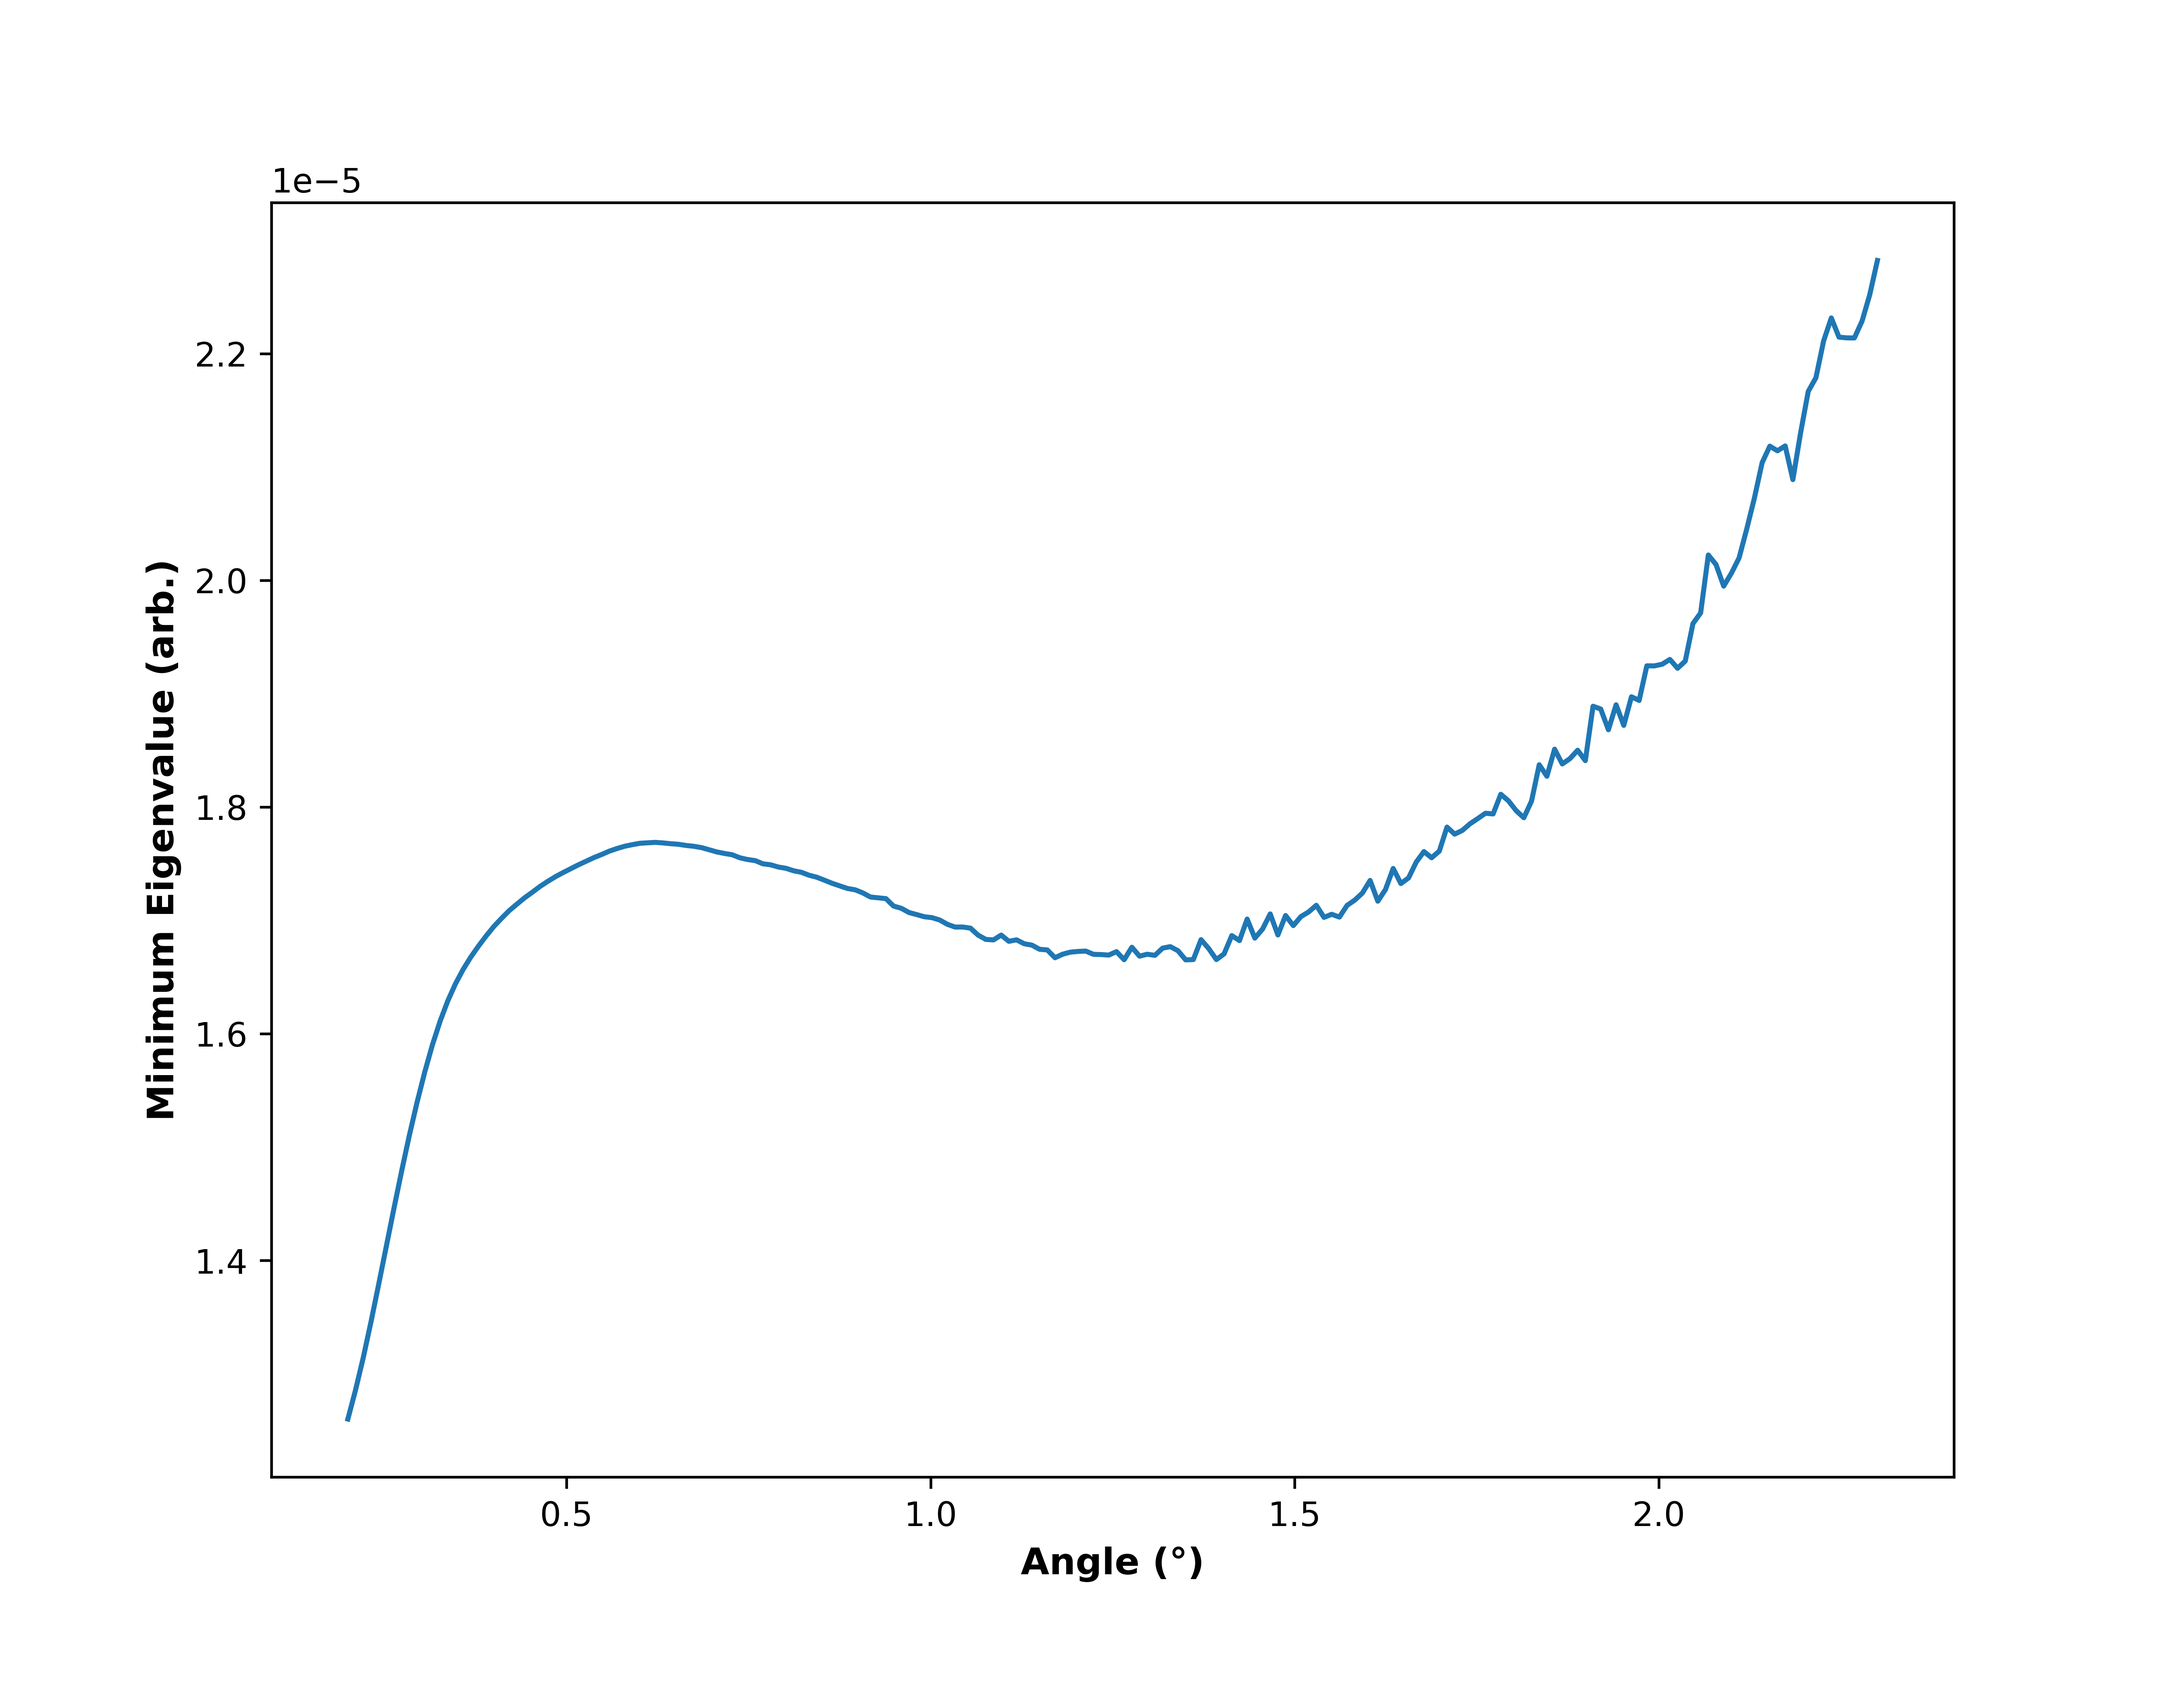
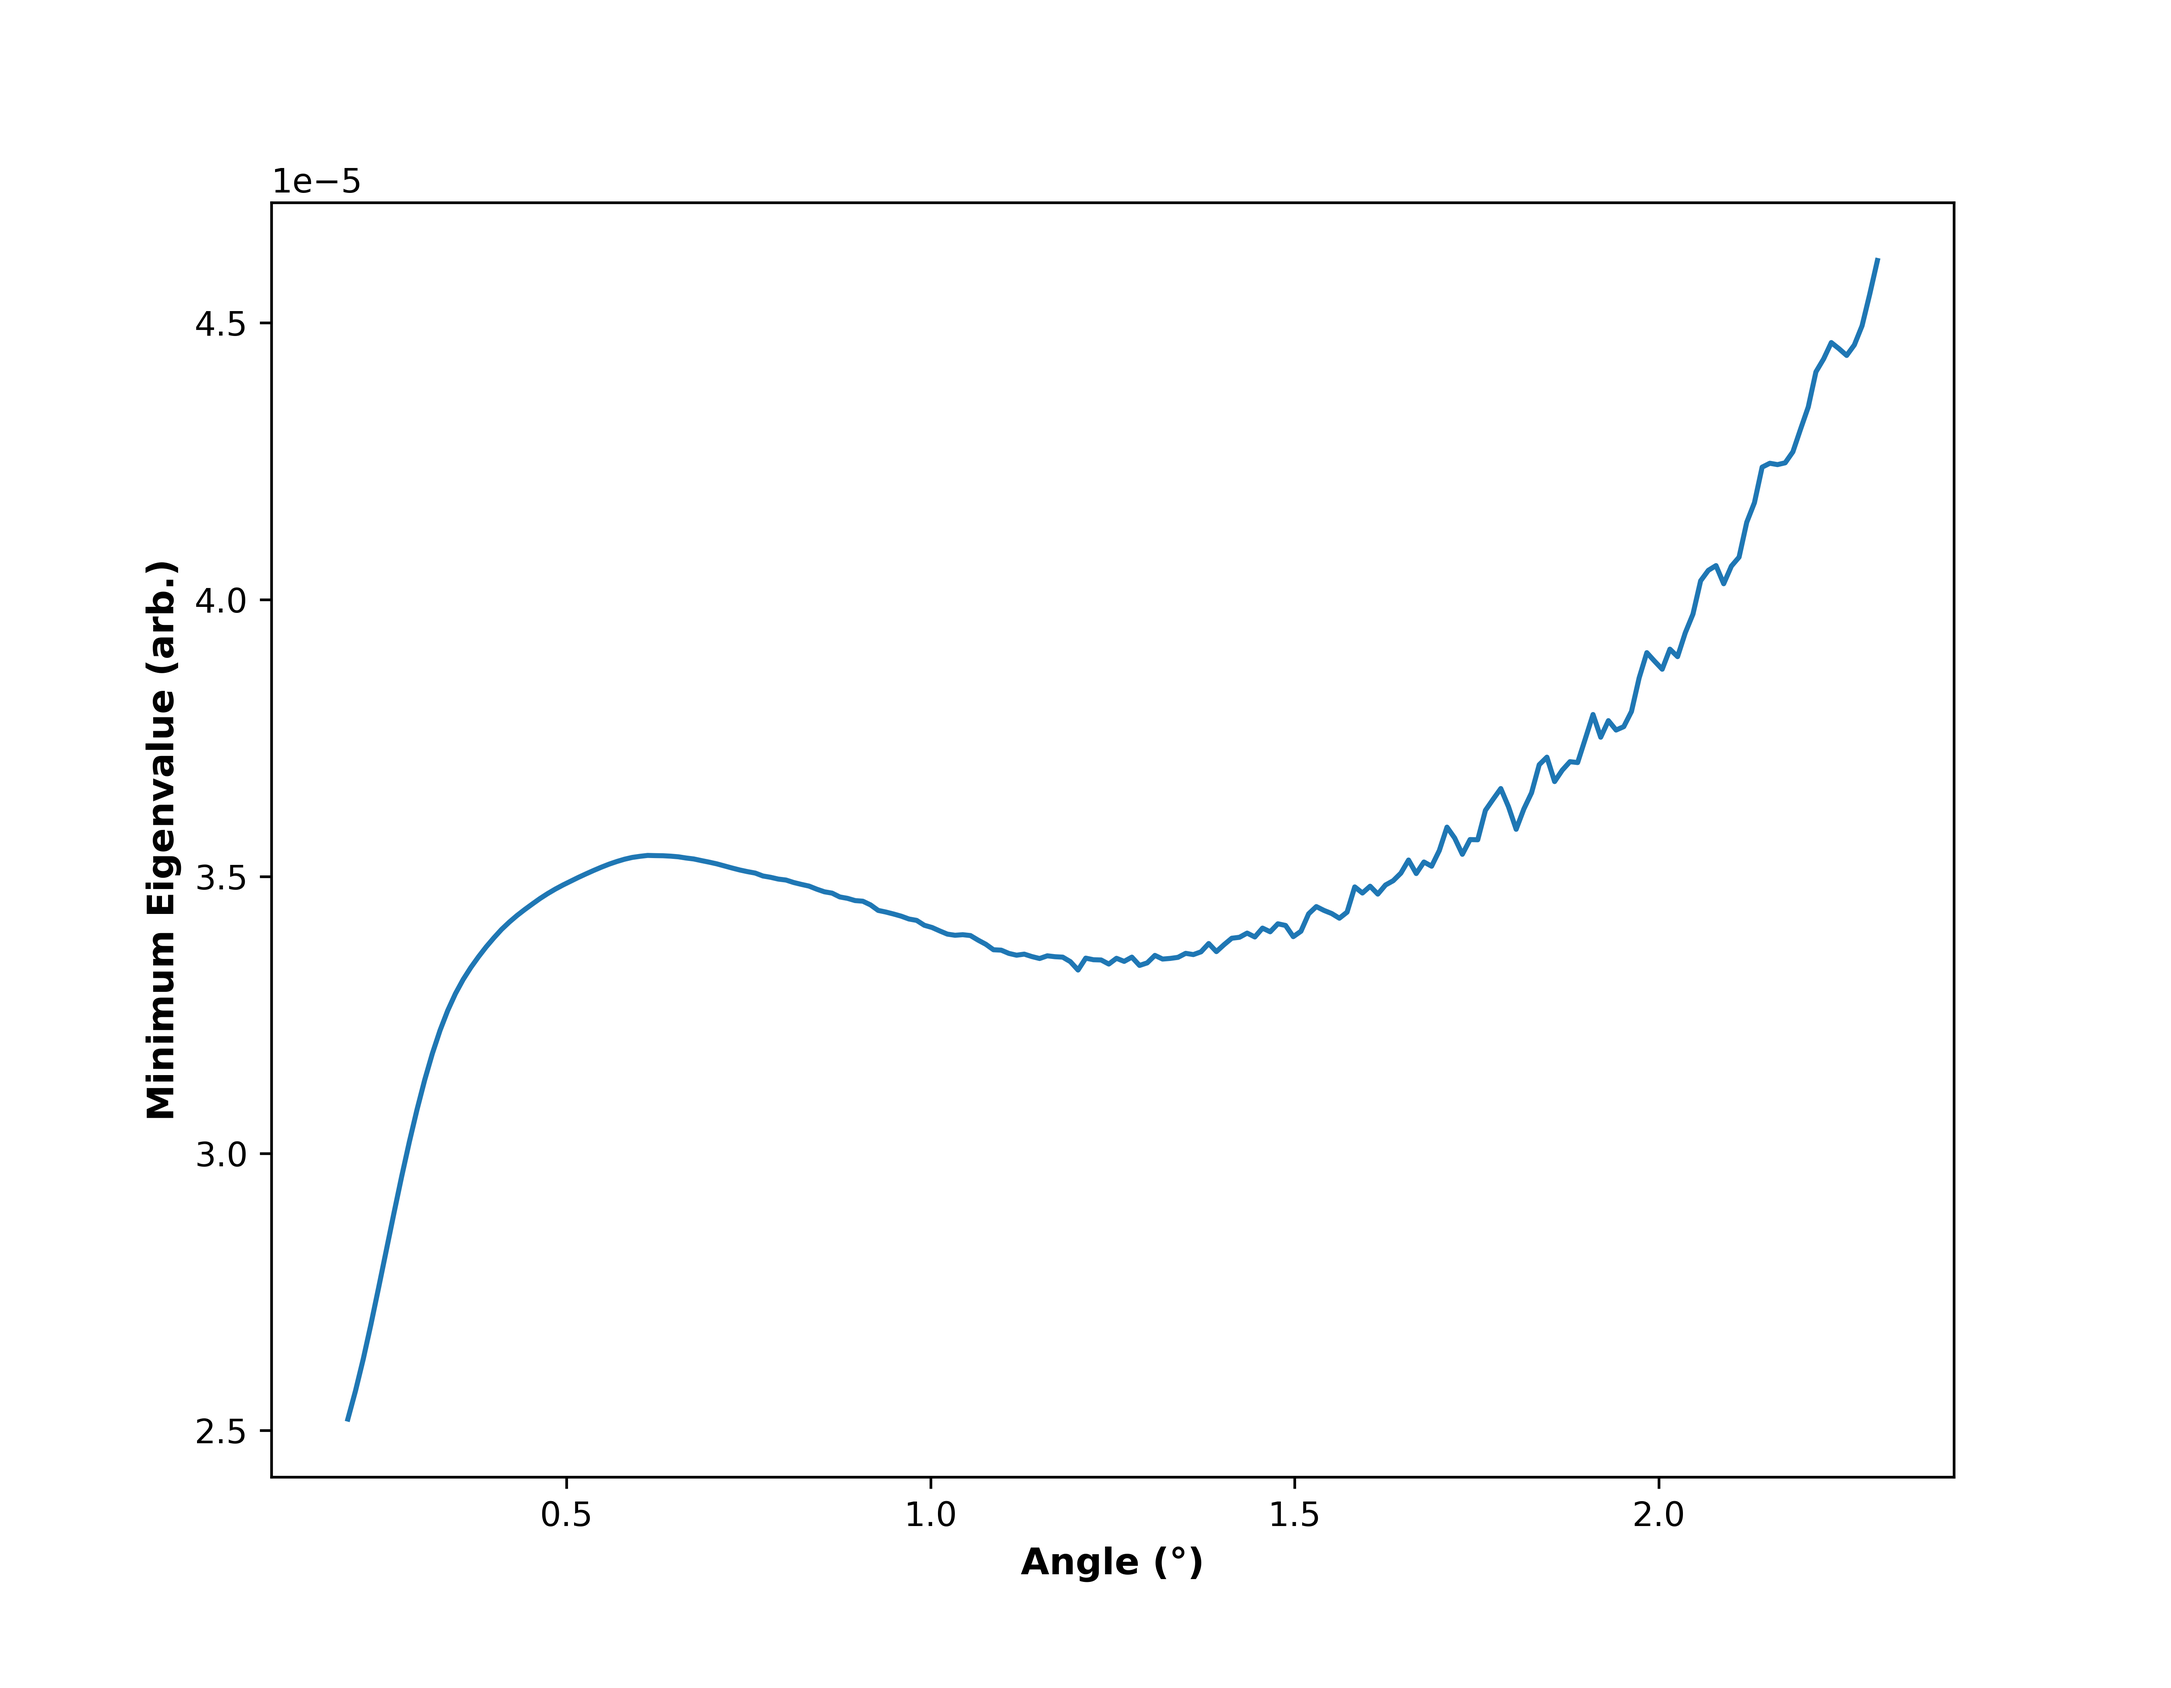
Updated demo

diff --git a/demo/angle.py b/demo/angle.py
@@ -4,6 +4,8 @@ import sys
 sys.path.append('../experimental-design')
 
 from refnx.reflect import SLD
+
+from structures import Sample
 from design import angle_choice_single
 
 # Defines a structure describing a simple sample.
@@ -15,19 +17,22 @@ substrate = SLD(2.047, name='Substrate')(thick=0, rough=2)
 structure = air | layer1 | layer2 | substrate
 structure.name = 'thin_layer_sample'
 
+# Wrap the refnx structure in the custom Sample class.
+sample = Sample(structure)
+
 # Path to directory to save results to.
 save_path = './results'
 
 points = 70 # Number of data points to simulate.
-time = 20 # Time to use for simulation.
+time = 40 # Time to use for simulation.
 
 # Angles (in degrees) to calculate over.
 angle_range = np.linspace(0.2, 2.3, 200)
 
 # Investigate first angle choice.
 initial_angle_times = {}
-angle_choice_single(structure, initial_angle_times, angle_range, points, time, save_path, 'angle_choice_1')
+angle_choice_single(sample, initial_angle_times, angle_range, points, time, save_path, 'angle_choice_1')
 
 # Investigate second angle choice.
-initial_angle_times = {2.3: (70, 20)} # First first angle choice - Angle: (Points, Time)
-angle_choice_single(structure, initial_angle_times, angle_range, points, time, save_path, 'angle_choice_2')
+initial_angle_times = {2.3: (70, 40)} # First first angle choice - Angle: (Points, Time)
+angle_choice_single(sample, initial_angle_times, angle_range, points, time, save_path, 'angle_choice_2')
